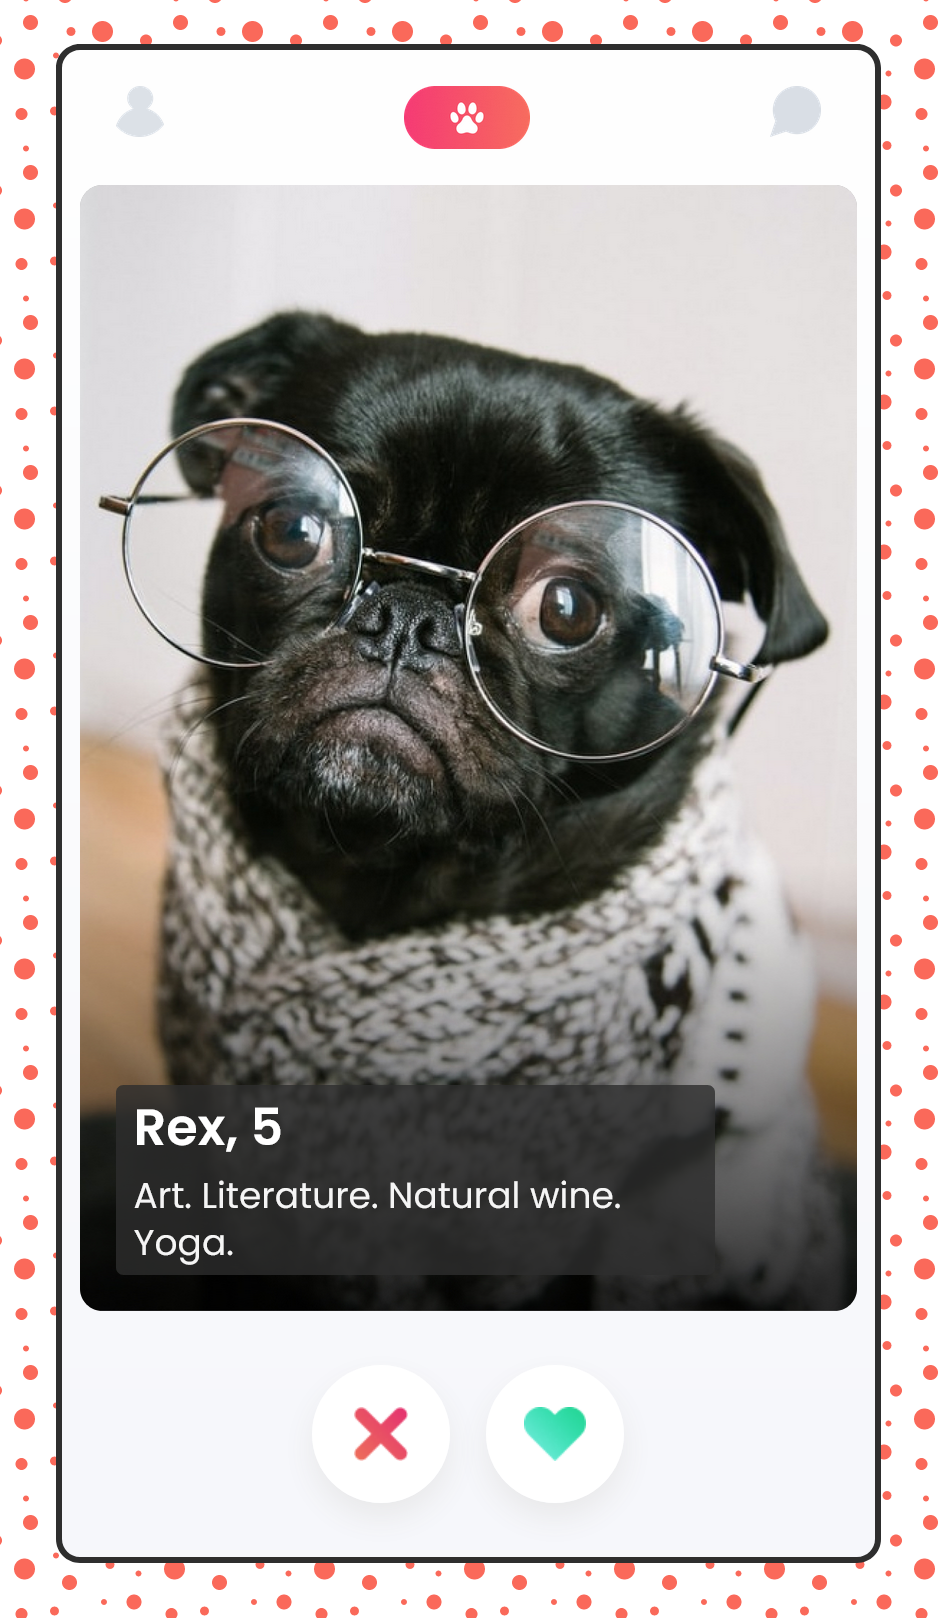
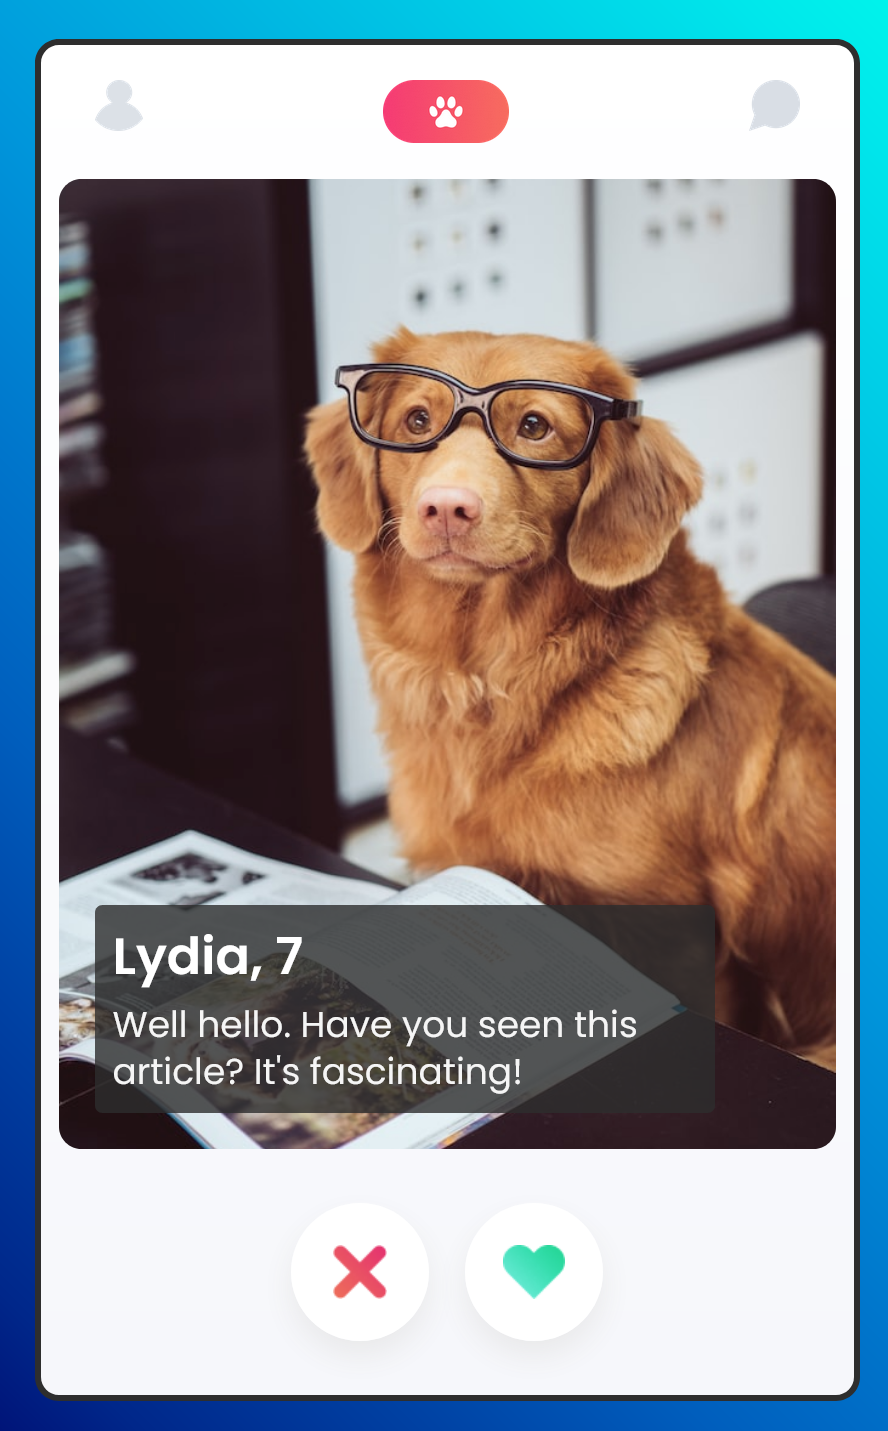
Update Dog class, minor styling updates

diff --git a/app.js b/app.js
@@ -4,17 +4,17 @@ import dogsData from './data.js';
 
 let currentDog = new Dog(dogsData.shift()); // get the first dog from the array (index 0)
 let isWaiting = false; // add to prevent double button execute on same image
-const swipeBtns = document.querySelectorAll('.swipe-btn'); // get the nope/like buttons
 
-swipeBtns.forEach(btn => { // add click listener to swipe buttons
+document.querySelectorAll('.swipe-btn').forEach(btn => { // add click listener to swipe buttons
   btn.addEventListener('click', handleSwipe) // attach handleSwipe to swipe buttons
 })
 
+// handle the button clicks (swipes)
 function handleSwipe(e) {
   if (!isWaiting) { // check if isWaiting resolves as falsy
-    currentDog.hasBeenSwiped = true; // flip the swiped flag  
+    currentDog.swiped(); // call currentDog's swiped method
     if (e.target.classList.contains('swipe-right')){ // determine btn selected
-      currentDog.hasBeenLiked = true; // flip hasBeenLiked to true
+      currentDog.liked(); // call currentDog's liked method
     } 
     handleBadgeHtml() // call handleBadgeHtml
     getNextDog() // call getNextDog
@@ -46,7 +46,8 @@ function handleBadgeHtml() {
   }
 }
 
-function noMoreDogsHtml() { // end of dogs array messaging
+// show a final image once all the dogs have been swiped
+function noMoreDogsHtml() { 
   document.querySelector('.dog-container').innerHTML = `
   <div class="animal cat-end"">
     <div class="dog-meta">

diff --git a/index.html b/index.html
@@ -21,20 +21,9 @@
       </div>
     </header>
     <main>
-      <!-- insert dog image html here -->
       <div class="dog-container">
-        <!-- demo html -->
-        <!-- <div class="dog demo">
-          <div class="badge" id="badge">
-            <img src="./images/badge-like.png" class="badge-img" alt="like">
-          </div>
-          <div class="meta">
-            <h1>Jovie, 6</h1>
-            <p>Don't you just love feeling the wind in your face?</p>
-          </div>
-        </div> -->
       </div>
-      <div class="button-container">
+      <div id="button-container" class="button-container">
         <button id="swipe-left" class="btn swipe-btn swipe-left">
           <img class="swipe-btn-icon swipe-left" src="./images/icon-cross.png" alt="">
         </button>

diff --git a/css/styles.css b/css/styles.css
@@ -55,7 +55,19 @@ body {
   font-weight: 400;
   line-height: 1.3;
   color: #f5f5f5;
-  background-image: url('../images/bubbles.svg');
+  background-image: linear-gradient(
+  45deg,
+  hsl(240deg 100% 20%) 0%,
+  hsl(223deg 100% 27%) 11%,
+  hsl(216deg 100% 32%) 22%,
+  hsl(210deg 100% 37%) 33%,
+  hsl(205deg 100% 40%) 44%,
+  hsl(199deg 100% 43%) 56%,
+  hsl(193deg 100% 44%) 67%,
+  hsl(187deg 100% 45%) 78%,
+  hsl(181deg 100% 46%) 89%,
+  hsl(175deg 100% 50%) 100%
+  );
   display: grid;
   place-content: center;
 }
@@ -68,7 +80,7 @@ h1 {
 }
 
 .container {
-  /* min-width: 350px; */
+  min-width: 350px;
   padding: 0 .5em;
   background: linear-gradient(180deg, #FFFFFF 0%, #F6F7FB 100%);
   border: 4px solid #2e2e2e;

diff --git a/Dog.js b/Dog.js
@@ -3,7 +3,15 @@ class Dog {
   constructor(data) {
     Object.assign(this, data)
   }
-
+  // swiped method
+  swiped() {
+    this.hasBeenSwiped = true;
+  }
+  // liked method 
+  liked() {
+    this.hasBeenLiked = true;
+  }
+  // build and return the dog's html
   getDogHtml() {
     const { name, avatar, age, bio } = this;
     return `
